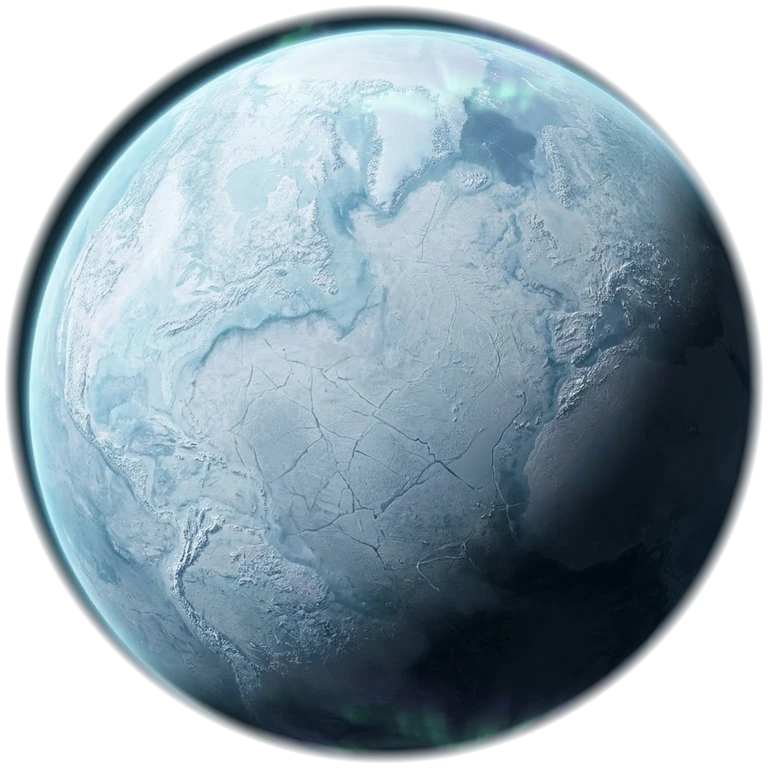
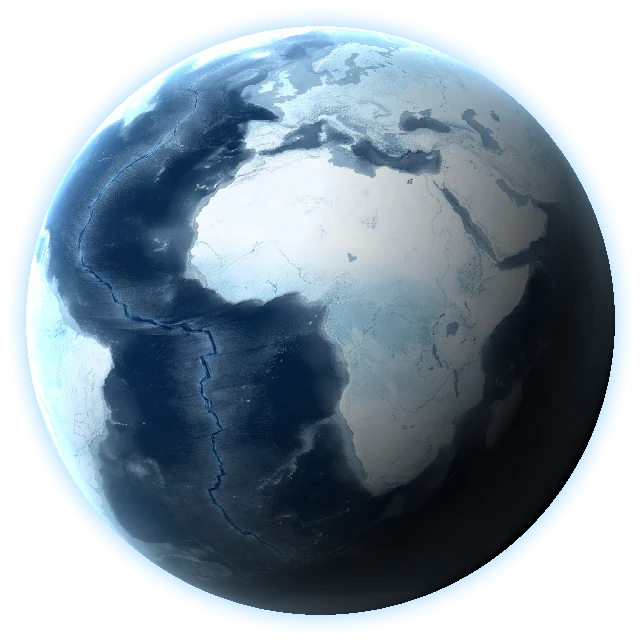
Yeni çizimler: 3B gezegenler, hangarlar, dokular, kalıntı ve üs modelleri (1.10.0)
- Gezegenler düz haritalardan dönen 3B kürelere çevrildi; her evrenin ana
  gezegeni ayrı harita, Kızıl/Zümrüt gece tarafında parlama maskesi
- Marzan ve Buzay disk sprite yerine güneşle aydınlanan küreler
- Gaz devi, ay, bulut haritaları yenilendi (kenar dikişi birleştirildi)
- Dört hangar ve açılış ekranı yeni çizimler
- Kaya dokuları 1024 döşenebilir; Kızıl Geçit'te demir kayalar lav kayası
- Sis bulutları yeni (mavi, altın, pembe)
- Kalıntılar ve oyuncu üssü üst + yan çizimden 3B model

Claude-Session: https://claude.ai/code/session_01YNY6pHbJFdPU9EshY3GZjT

diff --git a/js/game.js b/js/game.js
@@ -170,6 +170,13 @@ function buildOutpost(st){
   for (let i = 0; i < 12; i++){ const a = i / 12 * TAU, l = new THREE.Mesh(new THREE.SphereGeometry(2.3, 8, 8), new THREE.MeshBasicMaterial({ color: st.color })); l.position.set(Math.cos(a) * 62, 6.5, -Math.sin(a) * 62); g.add(l); lights.push(l); }
   g.add(new THREE.PointLight(st.color, 1.4, 500)); g.add(sprite(glowTexture((st.color >> 16) & 255, (st.color >> 8) & 255, st.color & 255), 260, 0.5));
   g.scale.setScalar(st.scale); g.position.copy(st.pos); scene.add(g); st.group = g; st.lights = lights;
+  if (st.isBase){
+    const swap = () => { const md = window.__olayModel && window.__olayModel('us'); if (!md) return false;
+      g.children.slice().forEach(ch => { if (ch.isMesh && !lights.includes(ch)) ch.visible = false; else if (ch.isSprite) ch.material.opacity = 0.15; });
+      lights.forEach((l, i) => { const a = i / lights.length * TAU; l.position.set(Math.sin(a) * 70, 10, Math.cos(a) * 70); });
+      md.scale.setScalar(210); g.add(md); return true; };
+    if (!swap()) setTimeout(swap, 0);
+  }
 }
 STATIONS.slice(1).forEach(buildOutpost);
 
@@ -2330,8 +2337,22 @@ function img3(key, cb){ const im = new Image(); im.onload = () => cb(im); im.src
     t.wrapS = t.wrapT = THREE.RepeatWrapping; t.repeat.set(rep[0], rep[1]); t.anisotropy = 4; t.needsUpdate = true;
     const m = astMat[type]; m.map = t; if (type !== 'kristal') m.bumpMap = t; m.bumpScale = bump; m.color.setRGB(col[0], col[1], col[2]); if (type === 'buz'){ m.emissiveMap = t; m.emissive.setHex(0x9ab8d0); m.emissiveIntensity = 0.42; } m.needsUpdate = true;
     hotCache = {}; asteroids.forEach(a => { if (a.heat > 0) a.mesh.material = astMat[a.type]; });
+    if (type === 'demir'){ ROCKT.d = null; rockSys(); }
   });
 });
+// Kızıl Geçit'te demir kayalar lav kayasına döner (çatlaklar karanlıkta parlar)
+const ROCKT = {};
+loadArt('assets/img/a3_tlav.webp', t => { t.wrapS = t.wrapT = THREE.RepeatWrapping; t.repeat.set(2, 1); ROCKT.lav = t; rockSys(); });
+loadArt('assets/img/a3_tlav_glow.webp', t => { t.wrapS = t.wrapT = THREE.RepeatWrapping; t.repeat.set(2, 1); ROCKT.glow = t; rockSys(); });
+function rockSys(){
+  const m = astMat.demir; if (!m.map) return;
+  if (!ROCKT.d) ROCKT.d = { map: m.map, col: m.color.clone() };
+  const lava = curSys === 1 && ROCKT.lav && ROCKT.glow, want = lava ? ROCKT.lav : ROCKT.d.map; if (m.map === want) return;
+  m.map = want; m.bumpMap = want;
+  if (lava){ m.color.setRGB(1.1, 1.0, 0.95); m.emissiveMap = ROCKT.glow; m.emissive.setHex(0xffffff); m.emissiveIntensity = 1.3; }
+  else { m.color.copy(ROCKT.d.col); m.emissiveMap = null; m.emissive.setHex(0x000000); m.emissiveIntensity = 1; }
+  m.needsUpdate = true; hotCache = {};
+}
 const STSPEC3D = {"ice": {"len": 1, "yc": 0.498, "zc": 0.0, "u0": 0.02, "u1": 0.976, "infer": 1, "gain": 1.0, "hull": {"TOP": [[0.02, 0.0537], [0.0333, 0.0859], [0.0467, 0.13], [0.06, 0.1637], [0.0733, 0.2007], [0.0867, 0.2337], [0.1, 0.253], [0.1133, 0.2626], [0.1267, 0.2644], [0.14, 0.2656], [0.1533, 0.2656], [0.1667, 0.2652], [0.18, 0.2619], [0.1933, 0.2548], [0.2067, 0.2419], [0.22, 0.23], [0.2333, 0.2196], [0.2467, 0.2133], [0.26, 0.2063], [0.2733, 0.2004], [0.2867, 0.193], [0.3, 0.1733], [0.3133, 0.153], [0.3267, 0.1352], [0.34, 0.1289], [0.3533, 0.1241], [0.3667, 0.1156], [0.38, 0.1011], [0.3933, 0.0837], [0.4067, 0.0678], [0.42, 0.0611], [0.4333, 0.0578], [0.4467, 0.0578], [0.46, 0.0578], [0.4733, 0.0581], [0.4867, 0.0585], [0.5, 0.0589], [0.5133, 0.0589], [0.5267, 0.0585], [0.54, 0.0581], [0.5533, 0.0578], [0.5667, 0.0578], [0.58, 0.0578], [0.5933, 0.0578], [0.6067, 0.06], [0.62, 0.0622], [0.6333, 0.0674], [0.6467, 0.07], [0.66, 0.07], [0.6733, 0.07], [0.6867, 0.07], [0.7, 0.07], [0.7133, 0.07], [0.7267, 0.07], [0.74, 0.07], [0.7533, 0.07], [0.7667, 0.07], [0.78, 0.0411], [0.7933, 0.0359], [0.8067, 0.0278], [0.82, 0.0193], [0.8333, 0.0137], [0.8467, 0.0115], [0.86, 0.01], [0.8733, 0.01], [0.8867, 0.0115], [0.9, 0.0141], [0.9133, 0.0167], [0.9267, 0.0178], [0.94, 0.0178], [0.9533, 0.0174], [0.9667, 0.0152], [0.98, 0.013]], "BOT": [[0.02, -0.11], [0.0333, -0.1585], [0.0467, -0.2111], [0.06, -0.2489], [0.0733, -0.2537], [0.0867, -0.2544], [0.1, -0.2544], [0.1133, -0.2541], [0.1267, -0.2522], [0.14, -0.2489], [0.1533, -0.2441], [0.1667, -0.2407], [0.18, -0.2389], [0.1933, -0.2389], [0.2067, -0.2389], [0.22, -0.2389], [0.2333, -0.24], [0.2467, -0.2411], [0.26, -0.2422], [0.2733, -0.2422], [0.2867, -0.2396], [0.3, -0.2344], [0.3133, -0.2274], [0.3267, -0.223], [0.34, -0.2159], [0.3533, -0.2037], [0.3667, -0.1841], [0.38, -0.1619], [0.3933, -0.1441], [0.4067, -0.1156], [0.42, -0.0907], [0.4333, -0.0685], [0.4467, -0.0644], [0.46, -0.0644], [0.4733, -0.0644], [0.4867, -0.0644], [0.5, -0.0644], [0.5133, -0.0644], [0.5267, -0.0626], [0.54, -0.06], [0.5533, -0.0574], [0.5667, -0.0567], [0.58, -0.0567], [0.5933, -0.0567], [0.6067, -0.0581], [0.62, -0.06], [0.6333, -0.06], [0.6467, -0.06], [0.66, -0.0526], [0.6733, -0.0093], [0.6867, 0.0374], [0.7, 0.05], [0.7133, 0.05], [0.7267, 0.05], [0.74, 0.05], [0.7533, 0.0467], [0.7667, 0.0126], [0.78, -0.0215], [0.7933, -0.0244], [0.8067, -0.0215], [0.82, -0.0159], [0.8333, -0.0104], [0.8467, -0.0078], [0.86, -0.0078], [0.8733, -0.0078], [0.8867, -0.0078], [0.9, -0.0111], [0.9133, -0.0144], [0.9267, -0.0178], [0.94, -0.0178], [0.9533, -0.0174], [0.9667, -0.0156], [0.98, -0.0137]], "HW": [[0.02, 0.0278], [0.0333, 0.0865], [0.0467, 0.1694], [0.06, 0.2511], [0.0733, 0.2891], [0.0867, 0.3065], [0.1, 0.3194], [0.1133, 0.3328], [0.1267, 0.3485], [0.14, 0.3613], [0.1533, 0.3706], [0.1667, 0.3804], [0.18, 0.3902], [0.1933, 0.4002], [0.2067, 0.4046], [0.22, 0.4072], [0.2333, 0.4102], [0.2467, 0.4143], [0.26, 0.4222], [0.2733, 0.4315], [0.2867, 0.4389], [0.3, 0.4444], [0.3133, 0.4469], [0.3267, 0.4489], [0.34, 0.4489], [0.3533, 0.4483], [0.3667, 0.4457], [0.38, 0.4422], [0.3933, 0.4393], [0.4067, 0.4383], [0.42, 0.4383], [0.4333, 0.4385], [0.4467, 0.4409], [0.46, 0.4443], [0.4733, 0.4496], [0.4867, 0.4528], [0.5, 0.455], [0.5133, 0.455], [0.5267, 0.4537], [0.54, 0.4426], [0.5533, 0.4293], [0.5667, 0.415], [0.58, 0.4089], [0.5933, 0.402], [0.6067, 0.3959], [0.62, 0.3891], [0.6333, 0.3846], [0.6467, 0.3776], [0.66, 0.3711], [0.6733, 0.3646], [0.6867, 0.3596], [0.7, 0.3507], [0.7133, 0.338], [0.7267, 0.3215], [0.74, 0.31], [0.7533, 0.2985], [0.7667, 0.293], [0.78, 0.2733], [0.7933, 0.2533], [0.8067, 0.2257], [0.82, 0.2093], [0.8333, 0.1948], [0.8467, 0.1813], [0.86, 0.1685], [0.8733, 0.1535], [0.8867, 0.1304], [0.9, 0.1026], [0.9133, 0.0665], [0.9267, 0.0456], [0.94, 0.0306], [0.9533, 0.0259], [0.9667, 0.0213], [0.98, 0.0183]], "NN": [[0, 2.6], [1, 2.6]]}, "N": 64, "M": 32, "ta": 1.0267, "sa": 0.5511, "boxes": [{"u": 0.7033, "y": 0, "z": -0.2911, "sx": 0.425, "sy": 0.05, "sz": 0.058, "mir": false, "ry": 0.5503}, {"u": 0.7444, "y": 0, "z": 0.2311, "sx": 0.3932, "sy": 0.05, "sz": 0.058, "mir": false, "ry": -0.7454}, {"u": 0.2389, "y": 0, "z": 0.2533, "sx": 0.3851, "sy": 0.05, "sz": 0.058, "mir": false, "ry": -2.3766}, {"u": 0.7822, "y": 0.02, "z": -0.4311, "sx": 0.15, "sy": 0.004, "sz": 0.065, "mir": false, "ry": -0.7854}, {"u": 0.9222, "y": 0.02, "z": -0.2911, "sx": 0.15, "sy": 0.004, "sz": 0.065, "mir": false, "ry": -0.733}, {"u": 0.9289, "y": 0.02, "z": 0.2644, "sx": 0.15, "sy": 0.004, "sz": 0.065, "mir": false, "ry": 0.7854}, {"u": 0.7889, "y": 0.02, "z": 0.42, "sx": 0.15, "sy": 0.004, "sz": 0.065, "mir": false, "ry": 0.6981}, {"u": 0.0778, "y": 0.02, "z": 0.2644, "sx": 0.15, "sy": 0.004, "sz": 0.065, "mir": false, "ry": -0.7854}, {"u": 0.2111, "y": 0.02, "z": 0.4089, "sx": 0.15, "sy": 0.004, "sz": 0.065, "mir": false, "ry": -0.6981}], "lathes": [{"pts": [[0.014, 0], [0.01, 0.09], [0.004, 0.17]], "seg": 8, "x": -0.004, "y": 0.062, "z": 0}, {"pts": [[0.018, 0], [0.014, -0.08], [0.008, -0.17]], "seg": 8, "x": -0.004, "y": -0.07, "z": 0}]}, "ankora": {"yc": 0.504, "zc": 0.0, "sx": 0.82, "gain": 1.0, "ta": 0.9911, "sa": 0.4556, "rings": [{"R": 0.375, "a": 0.049, "h": 0.046, "n": 4}], "lathes": [{"pts": [[0.0, -0.09], [0.06, -0.085], [0.075, -0.06], [0.075, 0.06], [0.06, 0.085], [0.0, 0.09]], "seg": 28}, {"pts": [[0.004, 0.09], [0.004, 0.27]], "seg": 6}, {"pts": [[0.004, -0.09], [0.004, -0.22]], "seg": 6}], "boxes": [{"u": 0.6414213562373096, "y": 0, "z": 0.1414213562373095, "sx": 0.27, "sy": 0.035, "sz": 0.04, "mir": false, "ry": -0.7853981633974483}, {"u": 0.3585786437626905, "y": 0, "z": 0.14142135623730953, "sx": 0.27, "sy": 0.035, "sz": 0.04, "mir": false, "ry": -2.356194490192345}, {"u": 0.35857864376269044, "y": 0, "z": -0.1414213562373095, "sx": 0.27, "sy": 0.035, "sz": 0.04, "mir": false, "ry": -3.9269908169872414}, {"u": 0.6414213562373094, "y": 0, "z": -0.14142135623730953, "sx": 0.27, "sy": 0.035, "sz": 0.04, "mir": false, "ry": -5.497787143782138}, {"u": 0.9, "y": 0, "z": -0.37, "sx": 0.2, "sy": 0.004, "sz": 0.15, "mir": false, "ry": 0.7853981633974483}, {"u": 0.09999999999999998, "y": 0, "z": 0.37, "sx": 0.2, "sy": 0.004, "sz": 0.15, "mir": false, "ry": 0.7853981633974483}]}, "demirhan": {"yc": 0.4559, "zc": 0.0, "u0": 0.03333333333333333, "u1": 0.9533333333333334, "hull": {"TOP": [[0.0333, 0.0861], [0.0533, 0.085], [0.0733, 0.085], [0.0933, 0.0861], [0.1133, 0.0883], [0.1333, 0.115], [0.1533, 0.1528], [0.1733, 0.1572], [0.1933, 0.1572], [0.2133, 0.1572], [0.2333, 0.1572], [0.2533, 0.1706], [0.2733, 0.1706], [0.2933, 0.1706], [0.3133, 0.1706], [0.3333, 0.1706], [0.3533, 0.1639], [0.3733, 0.1639], [0.3933, 0.1639], [0.4133, 0.1628], [0.4333, 0.1628], [0.4533, 0.1628], [0.4733, 0.205], [0.4933, 0.205], [0.5133, 0.205], [0.5333, 0.1928], [0.5533, 0.1928], [0.5733, 0.175], [0.5933, 0.1472], [0.6133, 0.1483], [0.6333, 0.175], [0.6533, 0.1661], [0.6733, 0.1483], [0.6933, 0.1483], [0.7133, 0.1494], [0.7333, 0.1494], [0.7533, 0.1494], [0.7733, 0.1494], [0.7933, 0.1494], [0.8133, 0.1483], [0.8333, 0.1406], [0.8533, 0.1306], [0.8733, 0.0906], [0.8933, -0.0128], [0.9133, -0.015], [0.9333, -0.015], [0.9533, -0.015]], "BOT": [[0.0333, 0.075], [0.0533, 0.0461], [0.0733, 0.0461], [0.0933, -0.0117], [0.1133, -0.1239], [0.1333, -0.1294], [0.1533, -0.135], [0.1733, -0.1394], [0.1933, -0.1483], [0.2133, -0.1483], [0.2333, -0.1506], [0.2533, -0.1483], [0.2733, -0.1439], [0.2933, -0.1428], [0.3133, -0.1428], [0.3333, -0.1394], [0.3533, -0.1394], [0.3733, -0.1394], [0.3933, -0.1639], [0.4133, -0.1639], [0.4333, -0.1639], [0.4533, -0.1639], [0.4733, -0.1639], [0.4933, -0.1639], [0.5133, -0.1639], [0.5333, -0.1639], [0.5533, -0.1639], [0.5733, -0.1639], [0.5933, -0.1639], [0.6133, -0.165], [0.6333, -0.1639], [0.6533, -0.1639], [0.6733, -0.1639], [0.6933, -0.1639], [0.7133, -0.1639], [0.7333, -0.1639], [0.7533, -0.1639], [0.7733, -0.1639], [0.7933, -0.1639], [0.8133, -0.1783], [0.8333, -0.1783], [0.8533, -0.1783], [0.8733, -0.1306], [0.8933, -0.115], [0.9133, -0.1028], [0.9333, -0.095], [0.9533, -0.095]], "HW": [[0.0333, 0.0078], [0.0533, 0.0094], [0.0733, 0.0094], [0.0933, 0.0094], [0.1133, 0.1417], [0.1333, 0.1567], [0.1533, 0.1678], [0.1733, 0.1772], [0.1933, 0.3972], [0.2133, 0.3972], [0.2333, 0.3972], [0.2533, 0.3972], [0.2733, 0.3972], [0.2933, 0.3972], [0.3133, 0.3972], [0.3333, 0.3817], [0.3533, 0.3817], [0.3733, 0.3817], [0.3933, 0.3883], [0.4133, 0.3883], [0.4333, 0.3883], [0.4533, 0.3717], [0.4733, 0.3711], [0.4933, 0.3711], [0.5133, 0.3711], [0.5333, 0.3717], [0.5533, 0.3833], [0.5733, 0.3839], [0.5933, 0.3839], [0.6133, 0.385], [0.6333, 0.3922], [0.6533, 0.3922], [0.6733, 0.3917], [0.6933, 0.3917], [0.7133, 0.3917], [0.7333, 0.3917], [0.7533, 0.3917], [0.7733, 0.385], [0.7933, 0.385], [0.8133, 0.385], [0.8333, 0.38], [0.8533, 0.2], [0.8733, 0.1606], [0.8933, 0.0078], [0.9133, 0.0078], [0.9333, 0.0061], [0.9533, 0.0061]], "NN": [[0, 6], [1, 6]]}, "N": 48, "M": 32, "ta": 1.0011, "sa": 0.5422, "gain": 1.0}, "kristal": {"yc": 0.596, "zc": 0.0, "sx": 1.0, "gain": 1.0, "ta": 0.9222, "sa": 0.43, "rings": [{"R": 0.295, "a": 0.048, "h": 0.052, "n": 3.5}], "lathes": [{"pts": [[0.0, -0.22], [0.07, -0.12], [0.115, -0.03], [0.115, 0.06], [0.075, 0.15], [0.0, 0.22]], "seg": 6}], "boxes": [{"u": 0.935, "y": 0, "z": -0.01, "sx": 0.13, "sy": 0.004, "sz": 0.075, "mir": false}, {"u": 0.065, "y": 0, "z": -0.01, "sx": 0.13, "sy": 0.004, "sz": 0.075, "mir": false}]}};
 // istasyonlar: üstten + iki yandan çizim, çapraz düzlemler
 [['Ankora İstasyonu', 'ankora', 240], ['Demirhan Üssü', 'demirhan', 200], ['Buzul Durağı', 'ice', 220], ['Kristal Kapısı', 'kristal', 200]].forEach(([ad, key, w]) => {
@@ -2353,8 +2374,8 @@ const STSPEC3D = {"ice": {"len": 1, "yc": 0.498, "zc": 0.0, "u0": 0.02, "u1": 0.
       st.group.add(wg); return;
     } catch (e) { console.log('ist3d hata', e); } }
     const mk = (tex, pw, ph) => new THREE.Mesh(new THREE.PlaneGeometry(pw, ph), new THREE.MeshBasicMaterial({ map: tex, transparent: true, alphaTest: 0.5, side: THREE.DoubleSide, color: 0xe6eaf2 }));
-    const art = new THREE.Group(), tp = mk(top, w, w * {"ankora_top": 0.9921, "ankora_side": 0.4556, "demirhan_top": 1.0013, "demirhan_side": 0.5422, "kristal_top": 0.9224, "kristal_side": 0.43, "korsanA_top": 0.9513, "korsanA_side": 0.3387, "korsanB_top": 1.03, "korsanB_side": 0.3962, "korsanC_top": 0.5387, "korsanC_side": 0.435, "harabe": 1.0781, "mars": 0.9953, "buzay": 0.9969, "fog0": 1.1367, "fog1": 1.0938, "fog2": 1.168}[key + '_top']); tp.rotation.x = -Math.PI / 2; art.add(tp);
-    const hs = {"ankora_top": 0.9921, "ankora_side": 0.4556, "demirhan_top": 1.0013, "demirhan_side": 0.5422, "kristal_top": 0.9224, "kristal_side": 0.43, "korsanA_top": 0.9513, "korsanA_side": 0.3387, "korsanB_top": 1.03, "korsanB_side": 0.3962, "korsanC_top": 0.5387, "korsanC_side": 0.435, "harabe": 1.0781, "mars": 0.9953, "buzay": 0.9969, "fog0": 1.1367, "fog1": 1.0938, "fog2": 1.168}[key + '_side'], s1 = mk(side, w, w * hs), s2 = mk(side, w, w * hs); s2.rotation.y = Math.PI / 2; art.add(s1); art.add(s2);
+    const art = new THREE.Group(), tp = mk(top, w, w * {"ankora_top": 0.9921, "ankora_side": 0.4556, "demirhan_top": 1.0013, "demirhan_side": 0.5422, "kristal_top": 0.9224, "kristal_side": 0.43, "korsanA_top": 0.9513, "korsanA_side": 0.3387, "korsanB_top": 1.03, "korsanB_side": 0.3962, "korsanC_top": 0.5387, "korsanC_side": 0.435, "harabe": 1.0781, "mars": 0.9953, "buzay": 0.9969, "fog0": 1.0, "fog1": 1.0, "fog2": 1.0}[key + '_top']); tp.rotation.x = -Math.PI / 2; art.add(tp);
+    const hs = {"ankora_top": 0.9921, "ankora_side": 0.4556, "demirhan_top": 1.0013, "demirhan_side": 0.5422, "kristal_top": 0.9224, "kristal_side": 0.43, "korsanA_top": 0.9513, "korsanA_side": 0.3387, "korsanB_top": 1.03, "korsanB_side": 0.3962, "korsanC_top": 0.5387, "korsanC_side": 0.435, "harabe": 1.0781, "mars": 0.9953, "buzay": 0.9969, "fog0": 1.0, "fog1": 1.0, "fog2": 1.0}[key + '_side'], s1 = mk(side, w, w * hs), s2 = mk(side, w, w * hs); s2.rotation.y = Math.PI / 2; art.add(s1); art.add(s2);
     st.group.children.slice().forEach(ch => { if (ch.isMesh) ch.visible = false; else if (ch.isSprite) ch.material.opacity = 0.1; });
     st.group.add(art);
   };
@@ -2366,16 +2387,25 @@ loadArt(A3.harabe, t => {
   ruins.forEach(r => {
     if (r.gate) return;
     r.group.children.slice().forEach(ch => { if (ch.isMesh) ch.visible = false; else if (ch.isSprite) ch.material.opacity = 0.3; });
+    const md = window.__olayModel && window.__olayModel('kalinti');
+    if (md){
+      md.scale.setScalar(250); md.rotation.set(rand(-0.5, 0.5), rand(0, TAU), rand(-0.5, 0.5)); r.group.add(md);
+      const gl = sprite(glowTexture(80, 255, 220), 90, 0.55); gl.position.copy(V(0, 12, 0).applyEuler(md.rotation)); r.group.add(gl);
+      const pl = new THREE.PointLight(0x5fffe0, 1.1, 260); pl.position.copy(gl.position); r.group.add(pl);
+      let ph = rand(0, 6); EXTRA.push(dt => { ph += dt; const k = 0.5 + 0.5 * Math.sin(ph * 1.3); gl.material.opacity = 0.35 + 0.3 * k; pl.intensity = 0.7 + 0.7 * k; });
+      return;
+    }
     const sp = new THREE.Sprite(new THREE.SpriteMaterial({ map: t, transparent: true, alphaTest: 0.4, depthWrite: true, fog: false })); sp.scale.set(230, 230 * 1.0781, 1); r.group.add(sp);
   });
 });
-// yeni gezegenler: yuvarlak çizimler, kameraya dönük
-[[PLANET2, 'mars', [255, 150, 100]], [PLANET3, 'buzay', [170, 210, 255]]].forEach(([P, key, glow]) => {
-  loadArt(A3[key], t => {
-    ARTIMG[key] = t.image;
-    const g = sprite(glowTexture(glow[0], glow[1], glow[2]), P.r * 3.3, 0.32); g.position.copy(P.pos); scene.add(g);
-    const sp = new THREE.Sprite(new THREE.SpriteMaterial({ map: t, transparent: true, alphaTest: 0.3, depthWrite: true, fog: false })); sp.scale.set(P.r * 2.04, P.r * 2.04 * {"ankora_top": 0.9921, "ankora_side": 0.4556, "demirhan_top": 1.0013, "demirhan_side": 0.5422, "kristal_top": 0.9224, "kristal_side": 0.43, "korsanA_top": 0.9513, "korsanA_side": 0.3387, "korsanB_top": 1.03, "korsanB_side": 0.3962, "korsanC_top": 0.5387, "korsanC_side": 0.435, "harabe": 1.0781, "mars": 0.9953, "buzay": 0.9969, "fog0": 1.1367, "fog1": 1.0938, "fog2": 1.168}[key], 1); sp.position.copy(P.pos); scene.add(sp);
-  });
+// yeni gezegenler: düz haritadan dönen küreler (güneşle aydınlanır)
+[[PLANET2, 'mars', 'pmap_mars', 0xff9a64], [PLANET3, 'buzay', 'pmap_buzay', 0xaad2ff]].forEach(([P, key, mk, glow]) => {
+  const m = new THREE.Mesh(new THREE.SphereGeometry(P.r, 64, 48), new THREE.MeshStandardMaterial({ color: 0x8a8a8a, roughness: 0.95, metalness: 0 }));
+  m.position.copy(P.pos); m.rotation.z = key === 'mars' ? 0.42 : -0.2; m.userData.noTint = true; scene.add(m);
+  atmosphere(P.r * 1.05, glow, P.pos);
+  loadArt('assets/img/' + mk + '.webp', t => { t.anisotropy = 4; m.material.map = t; m.material.color.setScalar(key === 'mars' ? 0.88 : 0.7); m.material.needsUpdate = true; });
+  loadArt(A3[key], t => { ARTIMG[key] = t.image; });
+  const sp = key === 'mars' ? 0.008 : 0.012; EXTRA.push(dt => { m.rotation.y += dt * sp; });
 });
 // kuyruklu yıldız: gökyüzünde, kuyruğu hep Güneş'in tersine bakar
 img3('comet', im => {
@@ -2401,7 +2431,7 @@ img3('comet', im => {
       sp.position.copy(b.c).add(V(rand(-1, 1), rand(-0.3, 0.3), rand(-1, 1)).multiplyScalar(b.r * 0.55)); scene.add(sp); fogs.push({ sp, base: b.rich ? 0.85 : 0.65 });
     } });
   };
-  [0, 1, 2].forEach(i => { const key = 'fog' + i; loadArt(A3[key], t => { tex[i] = { t, r: {"ankora_top": 0.9921, "ankora_side": 0.4556, "demirhan_top": 1.0013, "demirhan_side": 0.5422, "kristal_top": 0.9224, "kristal_side": 0.43, "korsanA_top": 0.9513, "korsanA_side": 0.3387, "korsanB_top": 1.03, "korsanB_side": 0.3962, "korsanC_top": 0.5387, "korsanC_side": 0.435, "harabe": 1.0781, "mars": 0.9953, "buzay": 0.9969, "fog0": 1.1367, "fog1": 1.0938, "fog2": 1.168}[key] }; if (tex.filter(Boolean).length === 3) mkFog(); }); });
+  [0, 1, 2].forEach(i => { const key = 'fog' + i; loadArt(A3[key], t => { tex[i] = { t, r: {"ankora_top": 0.9921, "ankora_side": 0.4556, "demirhan_top": 1.0013, "demirhan_side": 0.5422, "kristal_top": 0.9224, "kristal_side": 0.43, "korsanA_top": 0.9513, "korsanA_side": 0.3387, "korsanB_top": 1.03, "korsanB_side": 0.3962, "korsanC_top": 0.5387, "korsanC_side": 0.435, "harabe": 1.0781, "mars": 0.9953, "buzay": 0.9969, "fog0": 1.0, "fog1": 1.0, "fog2": 1.0}[key] }; if (tex.filter(Boolean).length === 3) mkFog(); }); });
   EXTRA.push(dt => { for (const f of fogs){ const d = f.sp.position.distanceTo(rig.position); f.sp.material.opacity = f.base * clamp((d - 70) / 260, 0, 1); } });
 }
 
@@ -2777,7 +2807,7 @@ function collectMovers(){
   }
 }
 function tintObj(o, tc){
-  const m = o.material; if (!m || Array.isArray(m)) return;
+  const m = o.material; if (!m || Array.isArray(m) || o.userData.noTint) return;
   const tgt = m.uniforms && m.uniforms.c ? m.uniforms.c.value : m.color; if (!tgt) return;
   if (!o.userData.c0) o.userData.c0 = tgt.clone();
   tgt.copy(o.userData.c0).multiply(tc);
@@ -4365,25 +4395,28 @@ EXTRA.push(dt => { if (comm.open) vel.multiplyScalar(Math.exp(-2.2 * dt)); });
 
 const A4 = {"p0": "assets/img/a4_p0.webp", "p1": "assets/img/a4_p1.webp", "p2": "assets/img/a4_p2.webp", "p3": "assets/img/a4_p3.webp", "b_comm": "assets/img/a4_b_comm.webp", "b_snd": "assets/img/a4_b_snd.webp", "b_set": "assets/img/a4_b_set.webp", "b_msg": "assets/img/a4_b_msg.webp", "i_trade": "assets/img/a4_i_trade.webp", "i_mk": "assets/img/a4_i_mk.webp", "i_hg": "assets/img/a4_i_hg.webp", "i_wp": "assets/img/a4_i_wp.webp", "i_up": "assets/img/a4_i_up.webp", "i_more": "assets/img/a4_i_more.webp", "i_ct": "assets/img/a4_i_ct.webp"};
 
-// ---- gezegen çizimleri (sistem başına bir tane), düğme çizimleri
-const PL_DISC = [], PL_GLOW = [[110, 170, 255], [255, 140, 90], [170, 220, 255], [90, 230, 180]];
-let plSprite = null, plGlow = null;
+// ---- ana gezegen: sistem başına bir düz harita, dönen kürede (disk çizimi harita simgesi ve sıçrama ekranı için)
+const PL_DISC = [], PL_MAP = [], PL_GLOWMAP = [], PL_GLOW = [[110, 170, 255], [255, 140, 90], [170, 220, 255], [90, 230, 180]];
+const PL_CLOUD = [[1, 1, 1, 0.92], [0.55, 0.45, 0.4, 0.0], [0.9, 0.95, 1, 0.35], [0.75, 0.95, 0.8, 0.45]];
+let plAtmo = null;
+planetMesh.userData.noTint = true; cloudMesh.userData.noTint = true;
 function plApply(){
-  const t = PL_DISC[curSys]; if (!t) return;
-  if (!plSprite){
-    plSprite = new THREE.Sprite(new THREE.SpriteMaterial({ map: t, transparent: true, depthWrite: true, fog: false }));
-    plGlow = sprite(glowTexture(110, 170, 255), PLANET.r * 3.1, 0.3);
-    scene.add(plGlow); scene.add(plSprite);
-    planetMesh.visible = false; cloudMesh.visible = false;
-    scene.children.forEach(o => { if (o.isMesh && o !== planetMesh && o !== cloudMesh && o.position.distanceTo(PLANET.pos) < 0.5) o.visible = false; });
-    PLANET.disc = true;
-  }
-  plSprite.material.map = t; plSprite.material.color.setRGB(1, 1, 1); plSprite.material.needsUpdate = true;
-  plSprite.scale.set(PLANET.r * 2, PLANET.r * 2, 1); plSprite.position.copy(PLANET.pos); plGlow.position.copy(PLANET.pos);
-  const g = PL_GLOW[curSys] || PL_GLOW[0]; plGlow.material.map = glowTexture(g[0], g[1], g[2]); plGlow.material.needsUpdate = true;
-  ARTIMG.veyra = t.image; window.__plT = t;
+  const k = curSys, mp = PL_MAP[k], m = planetMesh.material;
+  if (mp && m.map !== mp){ m.map = mp; m.needsUpdate = true; }
+  const gm = PL_GLOWMAP[k] || null;
+  if (m.emissiveMap !== gm){ m.emissiveMap = gm; m.emissive.setHex(gm ? 0xffffff : 0x000000); m.emissiveIntensity = gm ? 1.6 : 0; m.needsUpdate = true; }
+  m.color.setScalar([0.9, 0.95, 0.72, 0.95][k] || 0.9);
+  const cc = PL_CLOUD[k] || PL_CLOUD[0]; cloudMesh.visible = cc[3] > 0; cloudMesh.material.color.setRGB(cc[0], cc[1], cc[2]); cloudMesh.material.opacity = cc[3];
+  if (!plAtmo) plAtmo = scene.children.find(o => o.isMesh && o.material && o.material.uniforms && o.material.uniforms.c && o.position.distanceTo(PLANET.pos) < 0.5);
+  const g = PL_GLOW[k] || PL_GLOW[0]; if (plAtmo){ plAtmo.material.uniforms.c.value.setRGB(g[0] / 255, g[1] / 255, g[2] / 255); plAtmo.userData.noTint = true; }
+  rockSys();
+  PLANET.disc = true; const t = PL_DISC[k]; if (t){ ARTIMG.veyra = t.image; window.__plT = t; }
 }
-['p0', 'p1', 'p2', 'p3'].forEach((k, i) => loadArt(A4[k], t => { t.encoding = THREE.sRGBEncoding; PL_DISC[i] = t; if (i === curSys) plApply(); }));
+['p0', 'p1', 'p2', 'p3'].forEach((k, i) => {
+  loadArt(A4[k], t => { t.encoding = THREE.sRGBEncoding; PL_DISC[i] = t; if (i === curSys) plApply(); });
+  loadArt('assets/img/pmap_' + i + '.webp', t => { t.anisotropy = 4; PL_MAP[i] = t; if (i === curSys) plApply(); });
+  if (i === 1 || i === 3) loadArt('assets/img/pmap_' + i + '_glow.webp', t => { PL_GLOWMAP[i] = t; if (i === curSys) plApply(); });
+});
 { const _aw = applyWorld; applyWorld = function(k){ _aw(k); plApply(); }; }
 
 {
@@ -7028,6 +7061,13 @@ window.__qSet = (lv, manual) => { window.__qLevel = lv; try { localStorage.setIt
 
 // ---- olay modelleri: terk edilmiş istasyon ve korsan kampı (üst + yan çizimden 3B, istasyonlarla aynı yöntem)
 const OLAYSPEC = {
+  kalinti: { yc: 0.277, zc: 0, sx: 1, gain: 1.1, ta: 0.9729, sa: 0.5056, top: 'olay_kalinti_top', side: 'olay_kalinti_side',
+    rings: [{ R: 0.2275, a: 0.0225, h: 0.018, n: 4, y: -0.002, p0: -3.037, pl: 0.279, seg: 6 }, { R: 0.2275, a: 0.0225, h: 0.018, n: 4, y: -0.002, p0: -2.723, pl: 1.676, seg: 26 }, { R: 0.2275, a: 0.0225, h: 0.018, n: 4, y: -0.002, p0: -0.838, pl: 0.803, seg: 12 }, { R: 0.2275, a: 0.0225, h: 0.018, n: 4, y: -0.002, p0: 0.07, pl: 1.99, seg: 31 }, { R: 0.2275, a: 0.0225, h: 0.018, n: 4, y: -0.002, p0: 2.164, pl: 1.047, seg: 16 }, { R: 0.3275, a: 0.0275, h: 0.021, n: 4, y: 0.001, p0: -1.815, pl: 0.803, seg: 12 }, { R: 0.3275, a: 0.0275, h: 0.021, n: 4, y: 0.001, p0: -0.908, pl: 5.201, seg: 83 }, { R: 0.4475, a: 0.0325, h: 0.024, n: 4, y: 0.004, p0: -1.815, pl: 0.908, seg: 14 }, { R: 0.4475, a: 0.0325, h: 0.024, n: 4, y: 0.004, p0: -0.663, pl: 3.002, seg: 48 }, { R: 0.4475, a: 0.0325, h: 0.024, n: 4, y: 0.004, p0: 2.443, pl: 1.885, seg: 30 }],
+    lathes: [{ pts: [[0.001, -0.02], [0.18, -0.02], [0.18, 0.012], [0.15, 0.012], [0.15, 0.022], [0.001, 0.022]], seg: 48 }, { pts: [[0.001, -0.01], [0.05, -0.01], [0.05, 0.03], [0.044, 0.03], [0.044, 0.07], [0.039, 0.07], [0.039, 0.11], [0.034, 0.11], [0.032, 0.14], [0.027, 0.14], [0.025, 0.18], [0.021, 0.19], [0.019, 0.23], [0.016, 0.24], [0.014, 0.27], [0.011, 0.28], [0.008, 0.31], [0.005, 0.32], [0.003, 0.35], [0.0005, 0.37]], seg: 16 }] },
+  us: { yc: 0.407, zc: 0, sx: 1, gain: 1.05, ta: 1.0016, sa: 0.4912, top: 'olay_us_top', side: 'olay_us_side',
+    rings: [{ R: 0.3425, a: 0.0575, h: 0.04, n: 4, seg: 96 }],
+    lathes: [{ pts: [[0.001, -0.13], [0.07, -0.13], [0.085, -0.11], [0.1, -0.1], [0.1, 0.1], [0.115, 0.105], [0.115, 0.12], [0.08, 0.13], [0.001, 0.13]], seg: 32 }, { pts: [[0.012, 0.13], [0.012, 0.21], [0.004, 0.24]], seg: 8 }],
+    boxes: [{ u: 0.5000, y: 0, z: 0.2000, sx: 0.2, sy: 0.035, sz: 0.05, mir: false, ry: -1.5708 }, { u: 0.6414, y: 0, z: 0.1414, sx: 0.19, sy: 0.02, sz: 0.025, mir: false, ry: -0.7854 }, { u: 0.5000, y: 0, z: 0.4300, sx: 0.08, sy: 0.05, sz: 0.07, mir: false, ry: -1.5708 }, { u: 0.7000, y: 0, z: 0.0000, sx: 0.2, sy: 0.035, sz: 0.05, mir: false, ry: 0.0000 }, { u: 0.6414, y: 0, z: -0.1414, sx: 0.19, sy: 0.02, sz: 0.025, mir: false, ry: 0.7854 }, { u: 0.9300, y: 0, z: 0.0000, sx: 0.08, sy: 0.05, sz: 0.07, mir: false, ry: 0.0000 }, { u: 0.5000, y: 0, z: -0.2000, sx: 0.2, sy: 0.035, sz: 0.05, mir: false, ry: 1.5708 }, { u: 0.3586, y: 0, z: -0.1414, sx: 0.19, sy: 0.02, sz: 0.025, mir: false, ry: 2.3562 }, { u: 0.5000, y: 0, z: -0.4300, sx: 0.08, sy: 0.05, sz: 0.07, mir: false, ry: 1.5708 }, { u: 0.3000, y: 0, z: -0.0000, sx: 0.2, sy: 0.035, sz: 0.05, mir: false, ry: 3.1416 }, { u: 0.3586, y: 0, z: 0.1414, sx: 0.19, sy: 0.02, sz: 0.025, mir: false, ry: 3.9270 }, { u: 0.0700, y: 0, z: -0.0000, sx: 0.08, sy: 0.05, sz: 0.07, mir: false, ry: 3.1416 }, { u: 0.830, y: 0, z: -0.320, sx: 0.2, sy: 0.006, sz: 0.13, mir: false, ry: 0.785 }, { u: 0.170, y: 0, z: 0.310, sx: 0.2, sy: 0.006, sz: 0.13, mir: false, ry: 0.785 }, { u: 0.820, y: 0, z: 0.310, sx: 0.2, sy: 0.006, sz: 0.13, mir: false, ry: -0.785 }] },
   istasyon: { yc: 0.5, zc: 0, sx: 1, gain: 1.05, ta: 0.992, sa: 0.442, top: 'olay_istasyon_top', side: 'olay_istasyon_side',
     rings: [{ R: 0.425, a: 0.06, h: 0.035, n: 4, p0: 0.6109, pl: 2.3562 }, { R: 0.425, a: 0.06, h: 0.035, n: 4, p0: 3.4907, pl: 2.7053 }],
     lathes: [{ pts: [[0, -0.15], [0.06, -0.14], [0.075, -0.1], [0.075, 0.1], [0.06, 0.14], [0, 0.15]], seg: 28 }, { pts: [[0.006, 0.15], [0.006, 0.2]], seg: 6 }],

diff --git a/index.html b/index.html
@@ -132,7 +132,7 @@ body,button{font-size-adjust:.5}
 <script>
 /* SÜRÜM: her güncellemede bu numarayı artır. Tarayıcı eski game.js dosyasını önbellekten getirmez,
    ayarlar panelinin altında da bu numara görünür. */
-window.SD_VERSION = '1.9.0';
+window.SD_VERSION = '1.10.0';
 document.write('<script src="vendor/three-bloom.js?v=' + window.SD_VERSION + '"><\/script>');
 document.write('<script src="js/game.js?v=' + window.SD_VERSION + '"><\/script>');
 </script>

diff --git a/README.md b/README.md
@@ -10,6 +10,8 @@ Gemini istasyondan kaldır, asteroit kır, kargonu sat, gemini geliştir ve dör
 - Dört evren: Ankora, Kızıl, Buzul ve Zümrüt. Her birinin kendi atmosferi, istasyonları ve müziği var.
 - Evrenler arası hiperatlama.
 - Ana istasyonlar tünel ve hangar görünümüyle yanaşma ve kalkış animasyonuna sahip.
+- Gezegenler düz haritalardan kaplanmış, güneşle aydınlanan dönen 3B küreler: her evrenin ana gezegeni ayrı (okyanus, volkanik, buzul, orman). Kızıl gezegende lav, Zümrüt gezegende biyolüminesans gece tarafında parlar.
+- Kalıntılar (kırık halkalar ve kule) ile oyuncunun üssü üst + yan çizimden kurulmuş 3B modeller. Kızıl Geçit'teki demir kayaların çatlaklarından lav parlar.
 
 **Oynanış**
 - Madencilik, kargo taşıma ve ticaret.
